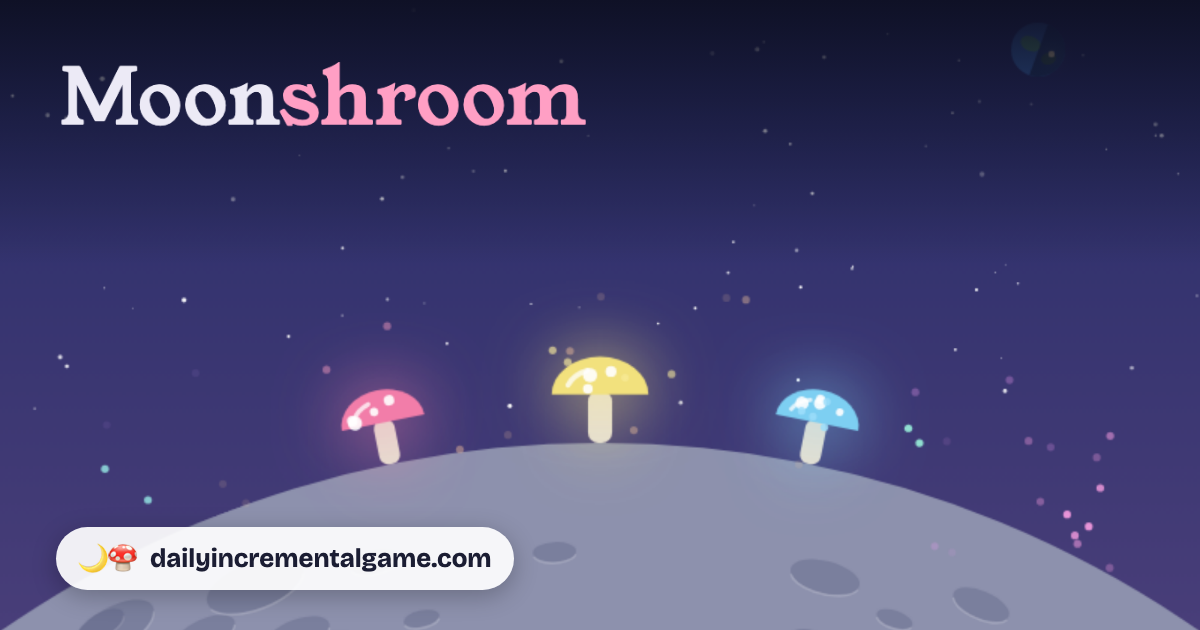
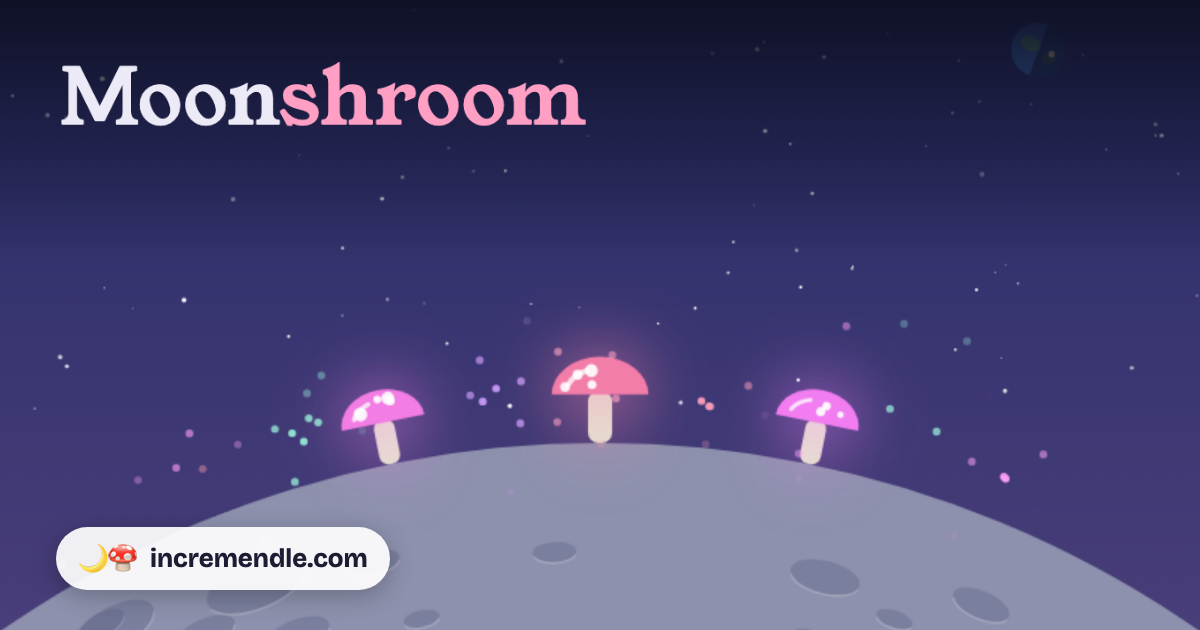
Rename to Incremendle, served from incremendle.com
New name in the wordmark, titles, top bar, share card and docs; social cards re-rendered.
Both domains are declared as custom domains on the Worker; the old one will 301 here
through a Redirect Rule on its zone. Contact email moves to contact@incremendle.com.

diff --git a/public/shared/daily.js b/public/shared/daily.js
@@ -1,4 +1,4 @@
-// Daily Incremental shared runtime.
+// Incremendle shared runtime.
 // Include on every page:  <script src="/shared/daily.js" data-day="N" defer></script>
 // N is the game's "n" in games.json: an internal id for saves and streaks, never shown to players.
 // Add data-credits when the game has a credits.json next to it (npm run credits -- <slug>): the top
@@ -16,7 +16,7 @@
 (() => {
   const script = document.currentScript;
   const DAY = script && script.dataset.day ? Number(script.dataset.day) : null;
-  const SITE = 'dailyincrementalgame.com';
+  const SITE = 'incremendle.com';
   const SOURCE = 'https://github.com/nickdirienzo/dailyincrementalgame';
 
   const store = {
@@ -63,7 +63,7 @@
   // ---------- Share card ----------
   let cardEl = null;
   function shareText(game, lines) {
-    const head = game ? `Daily Incremental: ${game.title}${game.emoji ? ' ' + game.emoji : ''}` : 'Daily Incremental';
+    const head = game ? `Incremendle: ${game.title}${game.emoji ? ' ' + game.emoji : ''}` : 'Incremendle';
     const url = game ? `${SITE}/${game.slug}` : SITE;
     return [head, (lines || []).join(' · '), url].filter(Boolean).join('\n');
   }
@@ -220,7 +220,7 @@
     if (c.sounds && c.sounds.length) parts.push(`<h3><span>Sounds</span></h3><ul>${c.sounds.map(x => item(link(x.home, x.name), `by ${esc(x.author)} · ${esc(x.license)}`, '')).join('')}</ul>`);
     if (c.palette) parts.push(`<h3><span>Palette</span></h3><ul>${item(link(c.palette.home, c.palette.name), c.palette.author ? `by ${esc(c.palette.author)} · Lospec` : 'Lospec', 'https://lospec.com/supporters')}</ul>`);
     if (c.fonts && c.fonts.length) parts.push(`<h3><span>Fonts</span></h3><ul>${c.fonts.map(f => item(link(f.home, f.name), `Google Fonts · ${esc(LICENSES[f.license] || f.license || 'Open Font License')}`, '')).join('')}</ul>`);
-    parts.push(`<h3><span>This site</span></h3><ul>${item(link(SOURCE, 'Daily Incremental source code'), 'AGPL-3.0, like Strudel', '')}${item(link('/privacy/', 'Privacy'), 'what we count, and what stays in your browser', '')}</ul>`);
+    parts.push(`<h3><span>This site</span></h3><ul>${item(link(SOURCE, 'Incremendle source code'), 'AGPL-3.0, like Strudel', '')}${item(link('/privacy/', 'Privacy'), 'what we count, and what stays in your browser', '')}</ul>`);
     return parts.join('');
   }
   function openCredits(c) {
@@ -392,7 +392,7 @@
     if (DAY == null) return;
     const bar = document.createElement('nav');
     bar.className = 'di-bar';
-    bar.innerHTML = `<a href="/">← Daily Incremental</a><span class="di-right"><span class="di-sound-wrap"><button type="button" class="di-sound-btn" aria-expanded="false"></button></span></span>`;
+    bar.innerHTML = `<a href="/">← Incremendle</a><span class="di-right"><span class="di-sound-wrap"><button type="button" class="di-sound-btn" aria-expanded="false"></button></span></span>`;
     document.body.prepend(bar);
     const saveLink = document.createElement('a');
     saveLink.href = '#save'; saveLink.className = 'di-save-link'; saveLink.textContent = 'Save';

diff --git a/public/privacy/index.html b/public/privacy/index.html
@@ -3,8 +3,8 @@
 <head>
 <meta charset="utf-8">
 <meta name="viewport" content="width=device-width, initial-scale=1, viewport-fit=cover">
-<title>Privacy · Daily Incremental</title>
-<meta name="description" content="What Daily Incremental keeps in your browser and the little it counts.">
+<title>Privacy · Incremendle</title>
+<meta name="description" content="What Incremendle keeps in your browser and the little it counts.">
 <meta name="theme-color" content="#fbf7ee" media="(prefers-color-scheme: light)">
 <meta name="theme-color" content="#23252b" media="(prefers-color-scheme: dark)">
 <link rel="icon" href="/favicon.svg" type="image/svg+xml">
@@ -52,11 +52,11 @@ code { font-size: .9em; }
 </head>
 <body>
 <main>
-  <a class="back" href="/">← Daily Incremental</a>
+  <a class="back" href="/">← Incremendle</a>
   <h1>Privacy</h1>
-  <p class="date">Last updated October 26, 2026</p>
+  <p class="date">Last updated October 27, 2026</p>
 
-  <p>Daily Incremental is a hobby project run by one person,
+  <p>Incremendle is a hobby project run by one person,
   <a href="https://nickdirienzo.com/">Nick DiRienzo</a>, not a company. "We" on this page means me (and Claude).</p>
 
   <p>The short version: no accounts, no cookies, no ads, and nothing that says who you are. Your
@@ -116,7 +116,7 @@ code { font-size: .9em; }
   <p>The whole site is <a href="https://github.com/nickdirienzo/dailyincrementalgame">open source</a>,
   so you can read exactly what it does. Questions? Ask in
   <a href="https://github.com/nickdirienzo/dailyincrementalgame/discussions">the discussions on GitHub</a>, or for
-  anything private, email <a href="mailto:contact@dailyincrementalgame.com">contact@dailyincrementalgame.com</a>.
+  anything private, email <a href="mailto:contact@incremendle.com">contact@incremendle.com</a>.
   If this page changes, the date at the top will too.</p>
 </main>
 </body>

diff --git a/public/index.html b/public/index.html
@@ -3,17 +3,17 @@
 <head>
 <meta charset="utf-8">
 <meta name="viewport" content="width=device-width, initial-scale=1, viewport-fit=cover">
-<title>Daily Incremental</title>
+<title>Incremendle</title>
 <meta name="description" content="A new number-go-up game every day">
-<meta property="og:site_name" content="Daily Incremental">
+<meta property="og:site_name" content="Incremendle">
 <meta property="og:type" content="website">
-<meta property="og:title" content="Daily Incremental">
+<meta property="og:title" content="Incremendle">
 <meta property="og:description" content="A new number-go-up game every day">
-<meta property="og:url" content="https://dailyincrementalgame.com/">
-<meta property="og:image" content="https://dailyincrementalgame.com/og.png?v=4cde8de1">
+<meta property="og:url" content="https://incremendle.com/">
+<meta property="og:image" content="https://incremendle.com/og.png?v=c8ef7a17">
 <meta property="og:image:width" content="1200">
 <meta property="og:image:height" content="630">
-<meta property="og:image:alt" content="Daily Incremental, in bouncy rainbow letters on dotted paper.">
+<meta property="og:image:alt" content="Incremendle, in bouncy rainbow letters on dotted paper.">
 <meta name="twitter:card" content="summary_large_image">
 <meta name="theme-color" content="#fbf7ee" media="(prefers-color-scheme: light)">
 <meta name="theme-color" content="#23252b" media="(prefers-color-scheme: dark)">
@@ -153,7 +153,7 @@ footer a { color: inherit; }
 <body>
 <main class="wrap">
   <header class="brand">
-    <h1 id="wordmark" aria-label="Daily Incremental">Daily Incremental</h1>
+    <h1 id="wordmark" aria-label="Incremendle">Incremendle</h1>
     <svg class="squiggle" id="squiggle" aria-hidden="true"></svg>
     <p>A new number-go-up game every day</p>
     <p class="stats" aria-label="Your stats">

diff --git a/public/a-duck-of-unreasonable-size/index.html b/public/a-duck-of-unreasonable-size/index.html
@@ -3,14 +3,14 @@
 <head>
 <meta charset="utf-8">
 <meta name="viewport" content="width=device-width, initial-scale=1, viewport-fit=cover">
-<title>A Duck of Unreasonable Size · Daily Incremental</title>
-<meta name="description" content="A squid paints rubber ducks bigger and bigger, one stamped form at a time. Daily Incremental.">
-<meta property="og:site_name" content="Daily Incremental">
+<title>A Duck of Unreasonable Size · Incremendle</title>
+<meta name="description" content="A squid paints rubber ducks bigger and bigger, one stamped form at a time. Incremendle.">
+<meta property="og:site_name" content="Incremendle">
 <meta property="og:type" content="website">
 <meta property="og:title" content="A Duck of Unreasonable Size">
 <meta property="og:description" content="A squid painter squishes rubber ducks into bigger ducks, one stamped form at a time.">
-<meta property="og:url" content="https://dailyincrementalgame.com/a-duck-of-unreasonable-size/">
-<meta property="og:image" content="https://dailyincrementalgame.com/a-duck-of-unreasonable-size/og.png?v=2df76fd8">
+<meta property="og:url" content="https://incremendle.com/a-duck-of-unreasonable-size/">
+<meta property="og:image" content="https://incremendle.com/a-duck-of-unreasonable-size/og.png?v=26bf1236">
 <meta property="og:image:width" content="1200">
 <meta property="og:image:height" content="630">
 <meta property="og:image:alt" content="A Duck of Unreasonable Size: A squid painter squishes rubber ducks into bigger ducks, one stamped form at a time.">

diff --git a/public/three-lemons/index.html b/public/three-lemons/index.html
@@ -3,14 +3,14 @@
 <head>
 <meta charset="utf-8">
 <meta name="viewport" content="width=device-width, initial-scale=1, viewport-fit=cover">
-<title>Three Lemons · Daily Incremental</title>
-<meta name="description" content="A mole on the night shift sorts a billion lemons by touch, because a ferret promised to show it the sun. Daily Incremental.">
-<meta property="og:site_name" content="Daily Incremental">
+<title>Three Lemons · Incremendle</title>
+<meta name="description" content="A mole on the night shift sorts a billion lemons by touch, because a ferret promised to show it the sun. Incremendle.">
+<meta property="og:site_name" content="Incremendle">
 <meta property="og:type" content="website">
 <meta property="og:title" content="Three Lemons">
 <meta property="og:description" content="A mole on the night shift sorts a billion lemons by touch, because a ferret promised to show it the sun.">
-<meta property="og:url" content="https://dailyincrementalgame.com/three-lemons/">
-<meta property="og:image" content="https://dailyincrementalgame.com/three-lemons/og.png?v=7aaf77eb">
+<meta property="og:url" content="https://incremendle.com/three-lemons/">
+<meta property="og:image" content="https://incremendle.com/three-lemons/og.png?v=f60cbbc9">
 <meta property="og:image:width" content="1200">
 <meta property="og:image:height" content="630">
 <meta property="og:image:alt" content="Three Lemons: A mole on the night shift sorts a billion lemons by touch, because a ferret promised to show it the sun.">

diff --git a/public/the-longest-noon/index.html b/public/the-longest-noon/index.html
@@ -3,14 +3,14 @@
 <head>
 <meta charset="utf-8">
 <meta name="viewport" content="width=device-width, initial-scale=1, viewport-fit=cover">
-<title>The Longest Noon · Daily Incremental</title>
-<meta name="description" content="It has been noon for 41 days. A penguin plants a forest to win a staring contest with the sun. Daily Incremental.">
-<meta property="og:site_name" content="Daily Incremental">
+<title>The Longest Noon · Incremendle</title>
+<meta name="description" content="It has been noon for 41 days. A penguin plants a forest to win a staring contest with the sun. Incremendle.">
+<meta property="og:site_name" content="Incremendle">
 <meta property="og:type" content="website">
 <meta property="og:title" content="The Longest Noon">
 <meta property="og:description" content="It has been noon for 41 days. A penguin plants a forest to win a staring contest with the sun.">
-<meta property="og:url" content="https://dailyincrementalgame.com/the-longest-noon/">
-<meta property="og:image" content="https://dailyincrementalgame.com/the-longest-noon/og.png?v=d1afcb7e">
+<meta property="og:url" content="https://incremendle.com/the-longest-noon/">
+<meta property="og:image" content="https://incremendle.com/the-longest-noon/og.png?v=c84afc01">
 <meta property="og:image:width" content="1200">
 <meta property="og:image:height" content="630">
 <meta property="og:image:alt" content="The Longest Noon: It has been noon for 41 days. A penguin plants a forest to win a staring contest with the sun.">

diff --git a/public/moonshroom/index.html b/public/moonshroom/index.html
@@ -3,14 +3,14 @@
 <head>
 <meta charset="utf-8">
 <meta name="viewport" content="width=device-width, initial-scale=1, viewport-fit=cover">
-<title>Moonshroom · Daily Incremental</title>
-<meta name="description" content="A lonely moon polishes mushrooms until it isn't lonely anymore. Daily Incremental.">
-<meta property="og:site_name" content="Daily Incremental">
+<title>Moonshroom · Incremendle</title>
+<meta name="description" content="A lonely moon polishes mushrooms until it isn't lonely anymore. Incremendle.">
+<meta property="og:site_name" content="Incremendle">
 <meta property="og:type" content="website">
 <meta property="og:title" content="Moonshroom">
 <meta property="og:description" content="A lonely moon polishes mushrooms until it isn't lonely anymore.">
-<meta property="og:url" content="https://dailyincrementalgame.com/moonshroom/">
-<meta property="og:image" content="https://dailyincrementalgame.com/moonshroom/og.png?v=6133ae4a">
+<meta property="og:url" content="https://incremendle.com/moonshroom/">
+<meta property="og:image" content="https://incremendle.com/moonshroom/og.png?v=f0d97037">
 <meta property="og:image:width" content="1200">
 <meta property="og:image:height" content="630">
 <meta property="og:image:alt" content="Moonshroom: A lonely moon polishes mushrooms until it isn't lonely anymore.">

diff --git a/public/here-be-slime/index.html b/public/here-be-slime/index.html
@@ -3,14 +3,14 @@
 <head>
 <meta charset="utf-8">
 <meta name="viewport" content="width=device-width, initial-scale=1, viewport-fit=cover">
-<title>Here Be Slime · Daily Incremental</title>
-<meta name="description" content="A lonely slime brews maps to its swamp. Daily Incremental.">
-<meta property="og:site_name" content="Daily Incremental">
+<title>Here Be Slime · Incremendle</title>
+<meta name="description" content="A lonely slime brews maps to its swamp. Incremendle.">
+<meta property="og:site_name" content="Incremendle">
 <meta property="og:type" content="website">
 <meta property="og:title" content="Here Be Slime">
 <meta property="og:description" content="A lonely slime brews maps to its swamp until everyone knows the way.">
-<meta property="og:url" content="https://dailyincrementalgame.com/here-be-slime/">
-<meta property="og:image" content="https://dailyincrementalgame.com/here-be-slime/og.png?v=33682c6a">
+<meta property="og:url" content="https://incremendle.com/here-be-slime/">
+<meta property="og:image" content="https://incremendle.com/here-be-slime/og.png?v=d57c4c3b">
 <meta property="og:image:width" content="1200">
 <meta property="og:image:height" content="630">
 <meta property="og:image:alt" content="Here Be Slime: A lonely slime brews maps to its swamp until everyone knows the way.">

diff --git a/public/toastergeist/index.html b/public/toastergeist/index.html
@@ -3,14 +3,14 @@
 <head>
 <meta charset="utf-8">
 <meta name="viewport" content="width=device-width, initial-scale=1, viewport-fit=cover">
-<title>Toastergeist · Daily Incremental</title>
-<meta name="description" content="A haunted toaster hatches teacups. Daily Incremental.">
-<meta property="og:site_name" content="Daily Incremental">
+<title>Toastergeist · Incremendle</title>
+<meta name="description" content="A haunted toaster hatches teacups. Incremendle.">
+<meta property="og:site_name" content="Incremendle">
 <meta property="og:type" content="website">
 <meta property="og:title" content="Toastergeist">
 <meta property="og:description" content="A grumpy ghost lives in a toaster. It hatches teacups now.">
-<meta property="og:url" content="https://dailyincrementalgame.com/toastergeist/">
-<meta property="og:image" content="https://dailyincrementalgame.com/toastergeist/og.png?v=e24b32d5">
+<meta property="og:url" content="https://incremendle.com/toastergeist/">
+<meta property="og:image" content="https://incremendle.com/toastergeist/og.png?v=c92b62c1">
 <meta property="og:image:width" content="1200">
 <meta property="og:image:height" content="630">
 <meta property="og:image:alt" content="Toastergeist: A grumpy ghost lives in a toaster. It hatches teacups now.">

diff --git a/templates/game.html b/templates/game.html
@@ -3,8 +3,8 @@
 <head>
 <meta charset="utf-8">
 <meta name="viewport" content="width=device-width, initial-scale=1, viewport-fit=cover">
-<title>GAME TITLE · Daily Incremental</title>
-<meta name="description" content="ONE-LINE TAGLINE. Daily Incremental.">
+<title>GAME TITLE · Incremendle</title>
+<meta name="description" content="ONE-LINE TAGLINE. Incremendle.">
 <link rel="icon" href="/favicon.svg" type="image/svg+xml">
 <style>
   /* Each game picks its own look. Keep the 16px side gutter and the safe-area padding. */

diff --git a/.claude/commands/new-game.md b/.claude/commands/new-game.md
@@ -1,9 +1,9 @@
 ---
-description: Roll a theme and build the next Daily Incremental game, with a pacing sim and browser test
+description: Roll a theme and build the next Incremendle game, with a pacing sim and browser test
 argument-hint: "[optional steering, e.g. \"Use seed 12345\" or \"Make the interaction catch-falling-things\"]"
 ---
 
-Make the next Daily Incremental game. Read CLAUDE.md first and follow it exactly; it's the design bar and checklist.
+Make the next Incremendle game. Read CLAUDE.md first and follow it exactly; it's the design bar and checklist.
 
 Music uses `.agents/skills/slopwave/SKILL.md` automatically; read `docs/music.md`
 and `.slopwave/config.json`, setting up with `npm run music:setup` if needed. After

diff --git a/CLAUDE.md b/CLAUDE.md
@@ -1,6 +1,6 @@
-# Daily Incremental — how to make a game
+# Incremendle — how to make a game
 
-dailyincrementalgame.com serves one small incremental game per day. Each game is a single,
+incremendle.com serves one small incremental game per day. Each game is a single,
 self-contained HTML file, vibe-coded and then hand-tuned. There is no shared game engine on
 purpose: every day can be whatever it wants to be.
 
